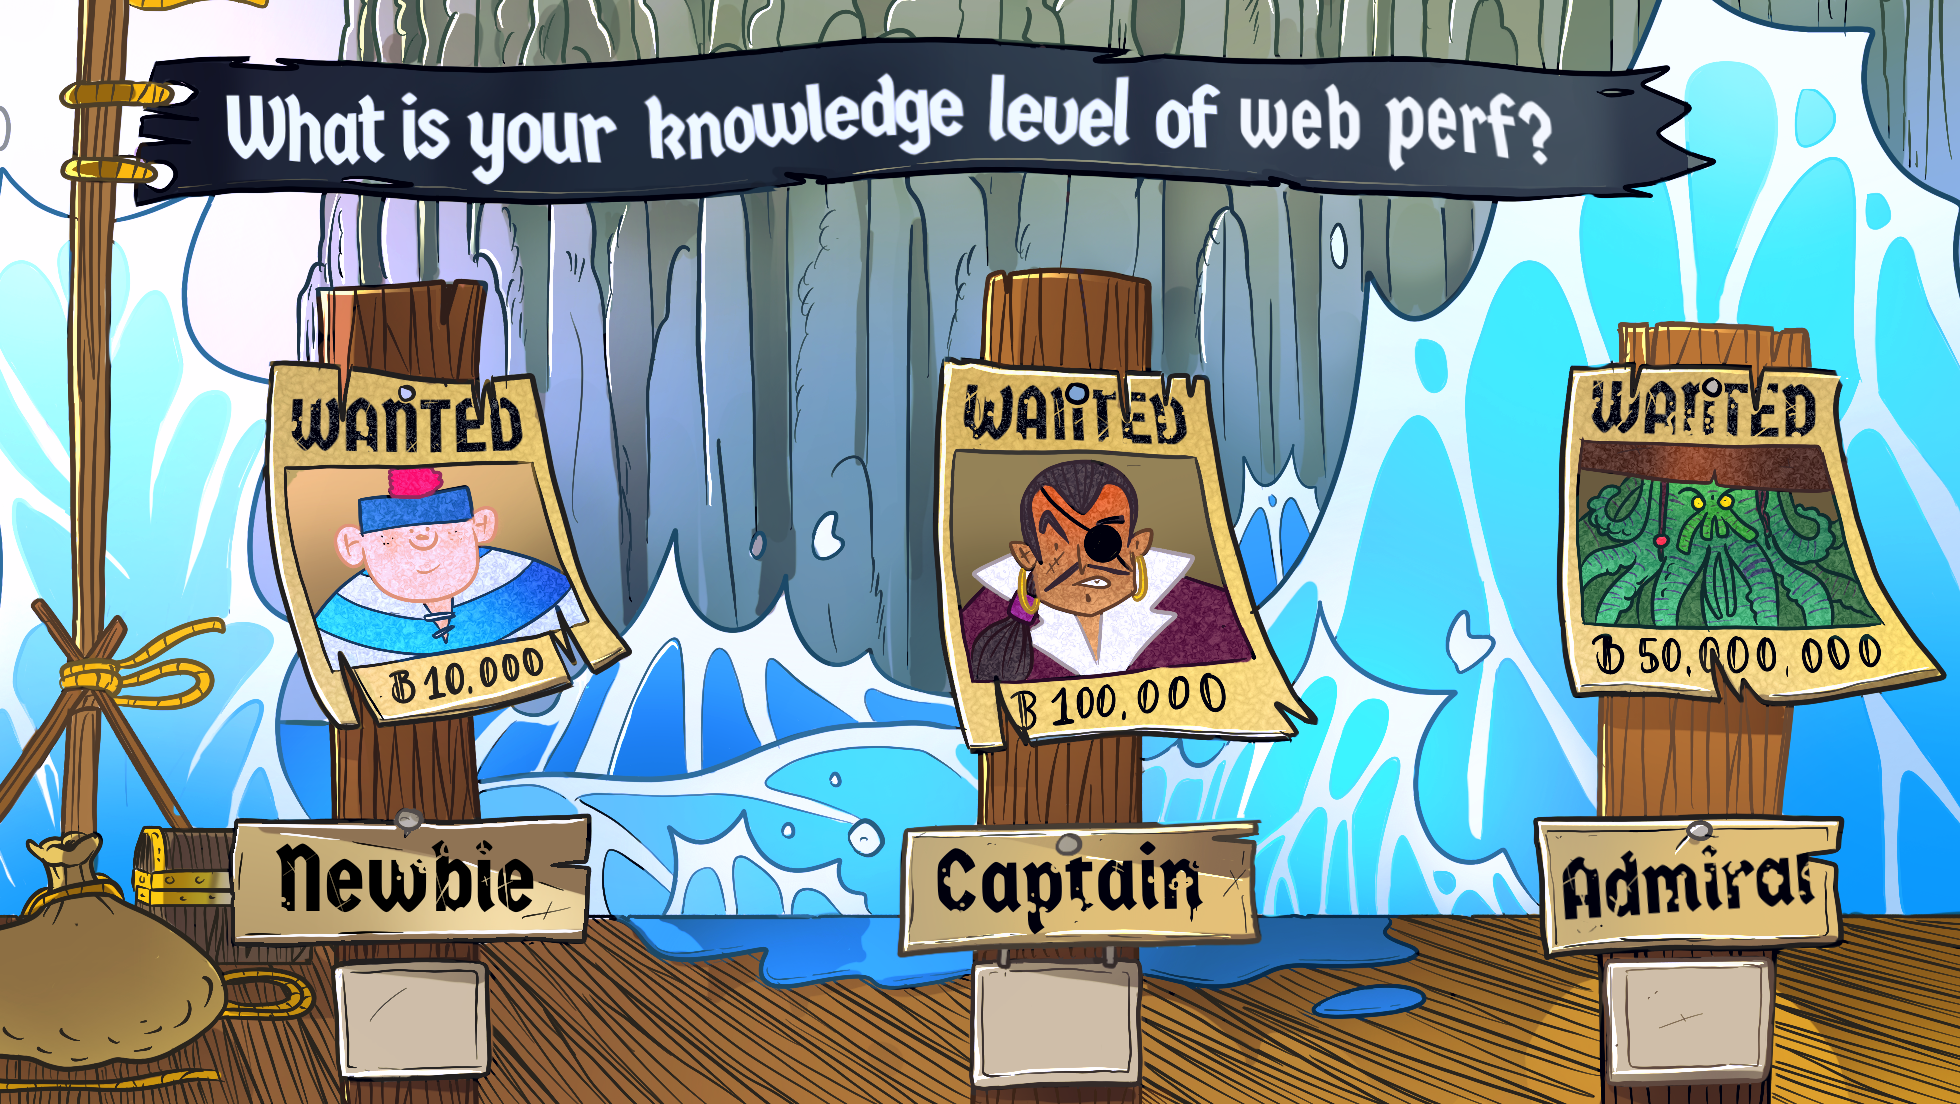
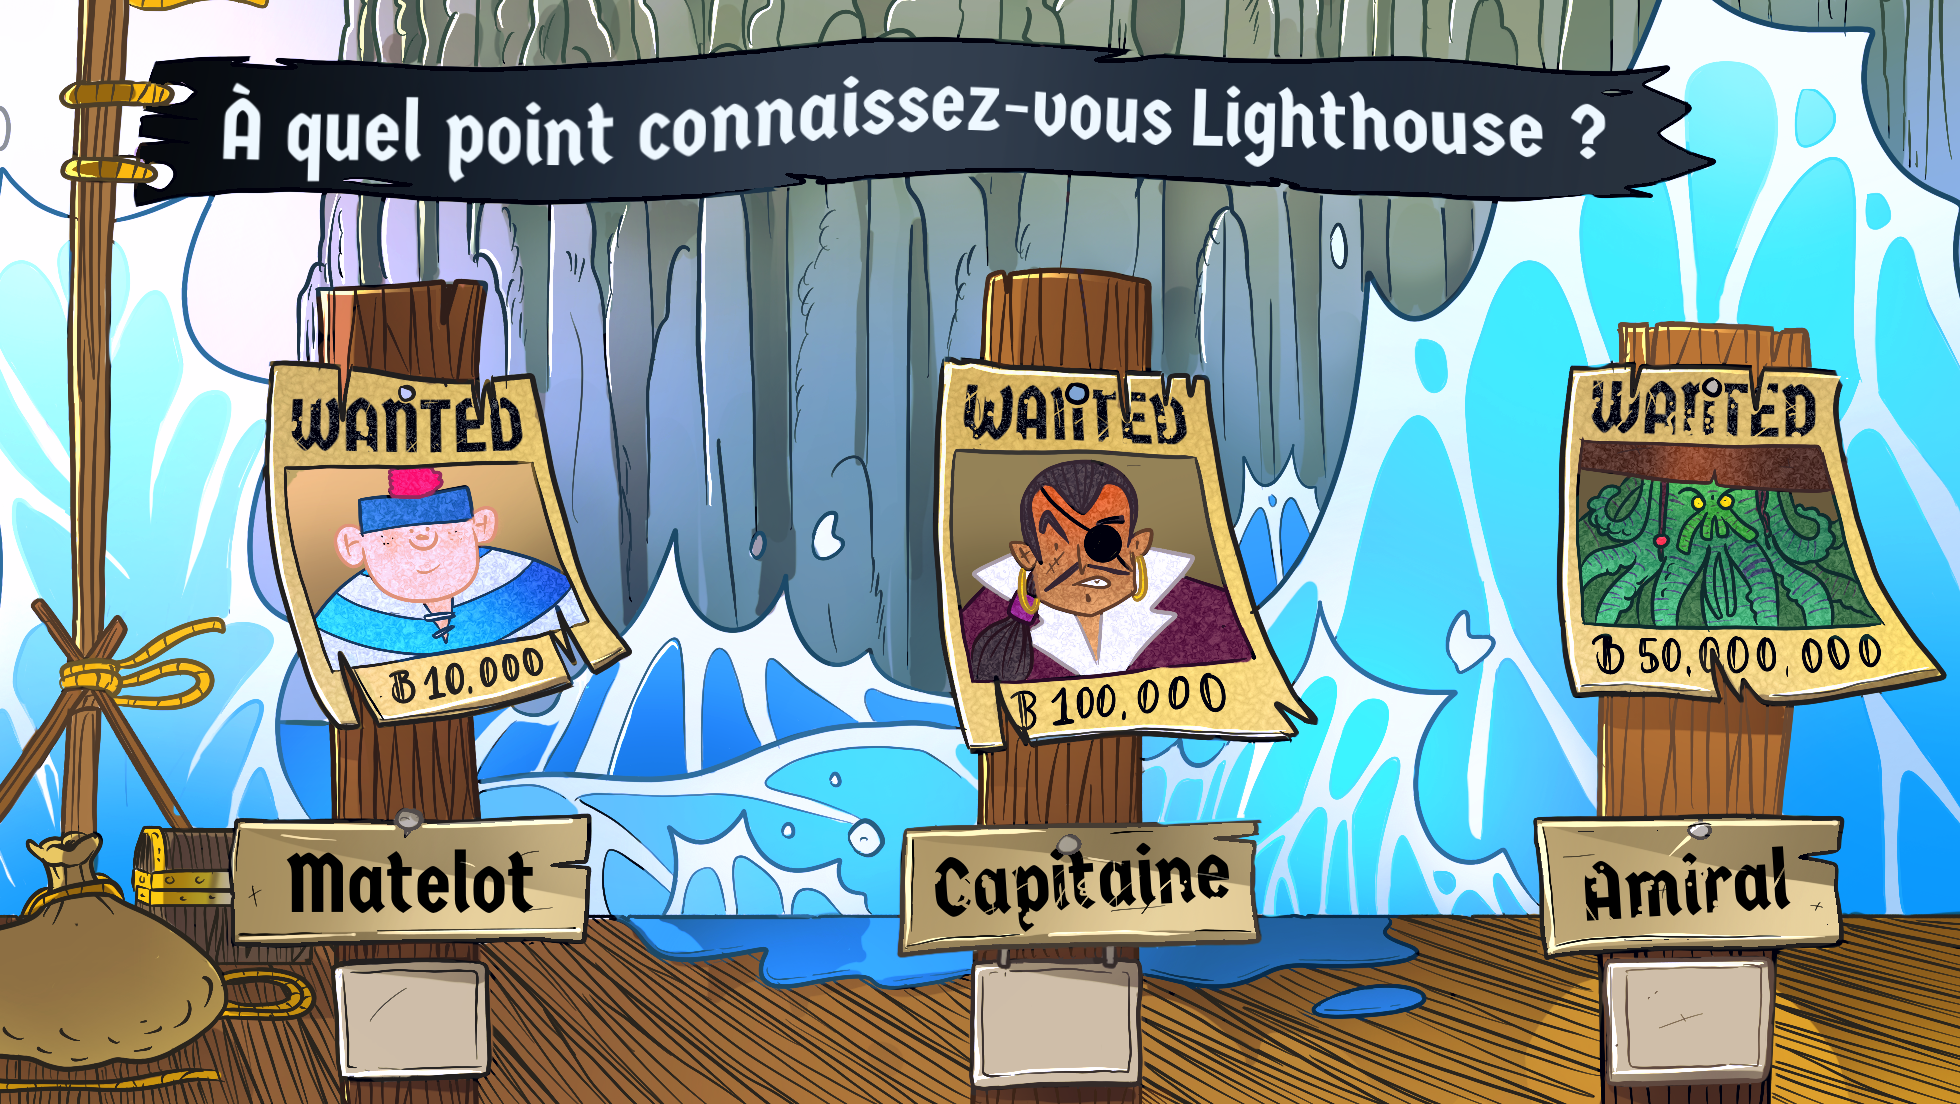
fix(vote): durcir la connexion Firestore (Brave/adblock) + renommer Mousse en Matelot
- shared/firebase: initializeFirestore avec experimentalAutoDetectLongPolling
  pour contourner le blocage du transport WebChannel par Brave Shields,
  bloqueurs de pubs et proxies mobiles
- useFirestore: détection d'erreur de connexion (hasConnectionError),
  signal de snapshot reçu (hasReceivedSnapshot), fonction reconnect()
- StatusScreen: bouton Réessayer sur l'écran d'erreur + message bloqueur
- App.vue: timeout de connexion (8s) distinguant bloqué vs présentation
  non démarrée, écran d'erreur branché, retry manuel
- PollScreen: niveau de vote "Mousse" renommé en "Matelot"
- assets: recompression de 2 backgrounds presentation

diff --git a/apps/vote/src/composables/useFirestore.ts b/apps/vote/src/composables/useFirestore.ts
@@ -23,9 +23,19 @@ import {
 
 // Module-level state (singleton)
 const isConnected = ref(false)
+// true dès qu'un listener remonte une erreur de transport (réseau coupé,
+// streaming bloqué par Brave/adblock). Branché sur l'écran d'erreur + retry.
+const hasConnectionError = ref(false)
+// true dès qu'un snapshot quelconque est reçu = transport prouvé vivant.
+// Permet de distinguer « bloqué » (aucun snapshot) de « présentation pas
+// encore démarrée » (snapshot reçu mais pas d'état de session).
+const hasReceivedSnapshot = ref(false)
 let db: Firestore | null = null
 let presentationId: string | null = null
 let presentationUnsubscribe: Unsubscribe | null = null
+let configUnsubscribe: Unsubscribe | null = null
+// Callback de session conservé pour pouvoir se ré-abonner lors d'un reconnect.
+let sessionCallback: ((msg: SessionStateMessage) => void) | null = null
 
 // ---- Connection ----
 
@@ -47,9 +57,34 @@ function disconnect() {
     presentationUnsubscribe()
     presentationUnsubscribe = null
   }
+  if (configUnsubscribe) {
+    configUnsubscribe()
+    configUnsubscribe = null
+  }
   isConnected.value = false
   db = null
   presentationId = null
+}
+
+// Réinitialise les listeners. Utilisé par le bouton « réessayer » quand la
+// connexion a échoué (ex. bloqueur désactivé après coup, réseau revenu).
+function reconnect(): boolean {
+  if (presentationUnsubscribe) {
+    presentationUnsubscribe()
+    presentationUnsubscribe = null
+  }
+  if (configUnsubscribe) {
+    configUnsubscribe()
+    configUnsubscribe = null
+  }
+  hasConnectionError.value = false
+  hasReceivedSnapshot.value = false
+  presentationId = null
+  const ok = connect()
+  if (ok && sessionCallback) {
+    onSessionState(sessionCallback)
+  }
+  return ok
 }
 
 // ---- Listen to session state ----
@@ -57,10 +92,16 @@ function disconnect() {
 function onSessionState(callback: (msg: SessionStateMessage) => void) {
   if (!db) return
 
+  sessionCallback = callback
+
   // Listen to config/current for presentation changes
   const configRef = doc(db, FIRESTORE_COLLECTIONS.CONFIG, 'current')
 
-  onSnapshot(configRef, (configSnap) => {
+  configUnsubscribe = onSnapshot(configRef, (configSnap) => {
+    // Un snapshot reçu = transport opérationnel.
+    isConnected.value = true
+    hasConnectionError.value = false
+    hasReceivedSnapshot.value = true
     if (!configSnap.exists()) return
     const config = configSnap.data() as FirestoreConfig
     const newPresentationId = config.activePresentationId
@@ -73,6 +114,8 @@ function onSessionState(callback: (msg: SessionStateMessage) => void) {
     }
   }, (err) => {
     console.error('[Firestore] Config listener error:', err)
+    isConnected.value = false
+    hasConnectionError.value = true
   })
 
   // Also subscribe immediately if we already have a presentation
@@ -91,6 +134,9 @@ function subscribeToPresentationDoc(callback: (msg: SessionStateMessage) => void
 
   const presRef = doc(db, FIRESTORE_COLLECTIONS.PRESENTATIONS, presentationId)
   presentationUnsubscribe = onSnapshot(presRef, (snap) => {
+    isConnected.value = true
+    hasConnectionError.value = false
+    hasReceivedSnapshot.value = true
     if (!snap.exists()) return
     const data = snap.data() as FirestorePresentation
 
@@ -112,6 +158,8 @@ function subscribeToPresentationDoc(callback: (msg: SessionStateMessage) => void
     callback(msg)
   }, (err) => {
     console.error('[Firestore] Presentation listener error:', err)
+    isConnected.value = false
+    hasConnectionError.value = true
   })
 }
 
@@ -223,7 +271,10 @@ async function submitFeedback(participantId: string, name: string, feedback: str
 export function useFirestore() {
   return {
     isConnected,
+    hasConnectionError,
+    hasReceivedSnapshot,
     connect,
+    reconnect,
     disconnect,
     onSessionState,
     registerParticipant,

diff --git a/apps/vote/src/App.vue b/apps/vote/src/App.vue
@@ -13,7 +13,7 @@ import VoteScreen from './components/VoteScreen.vue'
 import EndScreen from './components/EndScreen.vue'
 import FeedbackScreen from './components/FeedbackScreen.vue'
 
-const { isConnected: firestoreConnected, connect, onSessionState, registerParticipant, submitVote, submitPoll, submitFeedback } = useFirestore()
+const { isConnected: firestoreConnected, hasConnectionError, hasReceivedSnapshot, connect, reconnect, onSessionState, registerParticipant, submitVote, submitPoll, submitFeedback } = useFirestore()
 
 // ===========================================
 // Persistence helpers
@@ -288,6 +288,58 @@ function preloadNameFormImages(): Promise<void> {
 // Lifecycle
 // ===========================================
 
+// ===========================================
+// Connection error / retry
+// ===========================================
+
+// Filet de sécurité : si aucun état de session n'arrive (transport bloqué par
+// Brave/adblock sans erreur immédiate), on bascule sur l'écran d'erreur au lieu
+// de laisser le spinner tourner indéfiniment.
+const CONNECT_TIMEOUT_MS = 8000
+let connectTimeout: ReturnType<typeof setTimeout> | null = null
+
+function armConnectTimeout() {
+  if (connectTimeout) clearTimeout(connectTimeout)
+  connectTimeout = setTimeout(() => {
+    // Aucun snapshot reçu = transport bloqué (≠ présentation pas démarrée).
+    if (!hasReceivedSnapshot.value && status.value === 'connecting') {
+      status.value = 'error'
+    }
+  }, CONNECT_TIMEOUT_MS)
+}
+
+// Premier snapshot reçu mais pas encore d'état de session = connexion OK,
+// présentation pas encore démarrée → « En attente du capitaine ».
+watch(hasReceivedSnapshot, (received) => {
+  if (received && status.value === 'connecting') {
+    status.value = 'waiting'
+  }
+})
+
+// Un listener a remonté une erreur de transport avant que l'utilisateur ait
+// rejoint : on montre l'écran d'erreur. Une fois « joined », le SDK Firestore
+// gère seul la reconnexion (long-polling) entre les votes.
+watch(hasConnectionError, (err) => {
+  if (err && (status.value === 'connecting' || status.value === 'waiting')) {
+    status.value = 'error'
+  }
+})
+
+// Un état de session reçu = connexion vivante, on désarme le timeout.
+watch(sessionState, (s) => {
+  if (s && connectTimeout) {
+    clearTimeout(connectTimeout)
+    connectTimeout = null
+  }
+})
+
+function handleRetry() {
+  status.value = 'connecting'
+  armConnectTimeout()
+  const ok = reconnect()
+  if (!ok) status.value = 'error'
+}
+
 onMounted(async () => {
   preloadNameFormImages().then(() => { nameFormReady.value = true })
 
@@ -311,8 +363,9 @@ onMounted(async () => {
   const connected = connect()
   if (connected) {
     onSessionState(handleSessionState)
+    armConnectTimeout()
   } else {
-    status.value = 'waiting'
+    status.value = 'error'
   }
 })
 </script>
@@ -501,6 +554,7 @@ onMounted(async () => {
       <StatusScreen
         v-else-if="status === 'error'"
         variant="error"
+        @retry="handleRetry"
       />
 
     </div>

diff --git a/shared/firebase.ts b/shared/firebase.ts
@@ -1,5 +1,5 @@
 import { initializeApp, type FirebaseApp } from 'firebase/app'
-import { getFirestore, type Firestore } from 'firebase/firestore'
+import { initializeFirestore, type Firestore } from 'firebase/firestore'
 
 let app: FirebaseApp | null = null
 let db: Firestore | null = null
@@ -22,7 +22,12 @@ export function initFirebase(): Firestore | null {
   }
 
   app = initializeApp(config)
-  db = getFirestore(app)
+  // experimentalAutoDetectLongPolling: tente WebChannel puis bascule en
+  // long-polling si bloqué (Brave Shields, bloqueurs de pubs, proxies mobiles
+  // cassent le streaming WebChannel par défaut vers firestore.googleapis.com).
+  db = initializeFirestore(app, {
+    experimentalAutoDetectLongPolling: true,
+  })
   console.log('[Firebase] Initialized for project:', config.projectId)
   return db
 }

diff --git a/apps/vote/src/components/StatusScreen.vue b/apps/vote/src/components/StatusScreen.vue
@@ -2,6 +2,10 @@
 defineProps<{
   variant: 'connecting' | 'waiting' | 'error'
 }>()
+
+defineEmits<{
+  retry: []
+}>()
 </script>
 
 <template>
@@ -24,7 +28,12 @@ defineProps<{
     <p
       v-if="variant === 'error'"
       class="text-sm opacity-60 mt-2"
-    >Vérifiez votre connexion internet</p>
+    >Vérifiez votre connexion internet ou désactivez votre bloqueur de pubs</p>
+    <button
+      v-if="variant === 'error'"
+      type="button"
+      class="mt-6 px-6 py-3 text-2xl rounded-xl bg-white/15 hover:bg-white/25 transition-colors"
+      @click="$emit('retry')"
+    >Réessayer</button>
   </div>
 </template>
-po

diff --git a/apps/vote/src/components/PollScreen.vue b/apps/vote/src/components/PollScreen.vue
@@ -21,12 +21,12 @@ const emit = defineEmits<{
       <img
         src="
         /poll/newbie.webp"
-        alt="Mousse"
+        alt="Matelot"
         class="absolute left-[50%]  -translate-x-1/2 m-auto h-[55%] top-[15%]"
       />
       <div
         class="absolute left-[50%] text-center text-3xl font-bold font-title text-black top-[69%] -translate-x-1/2 m-auto"
-      >Mousse</div>
+      >Matelot</div>
     </div>
 
 
